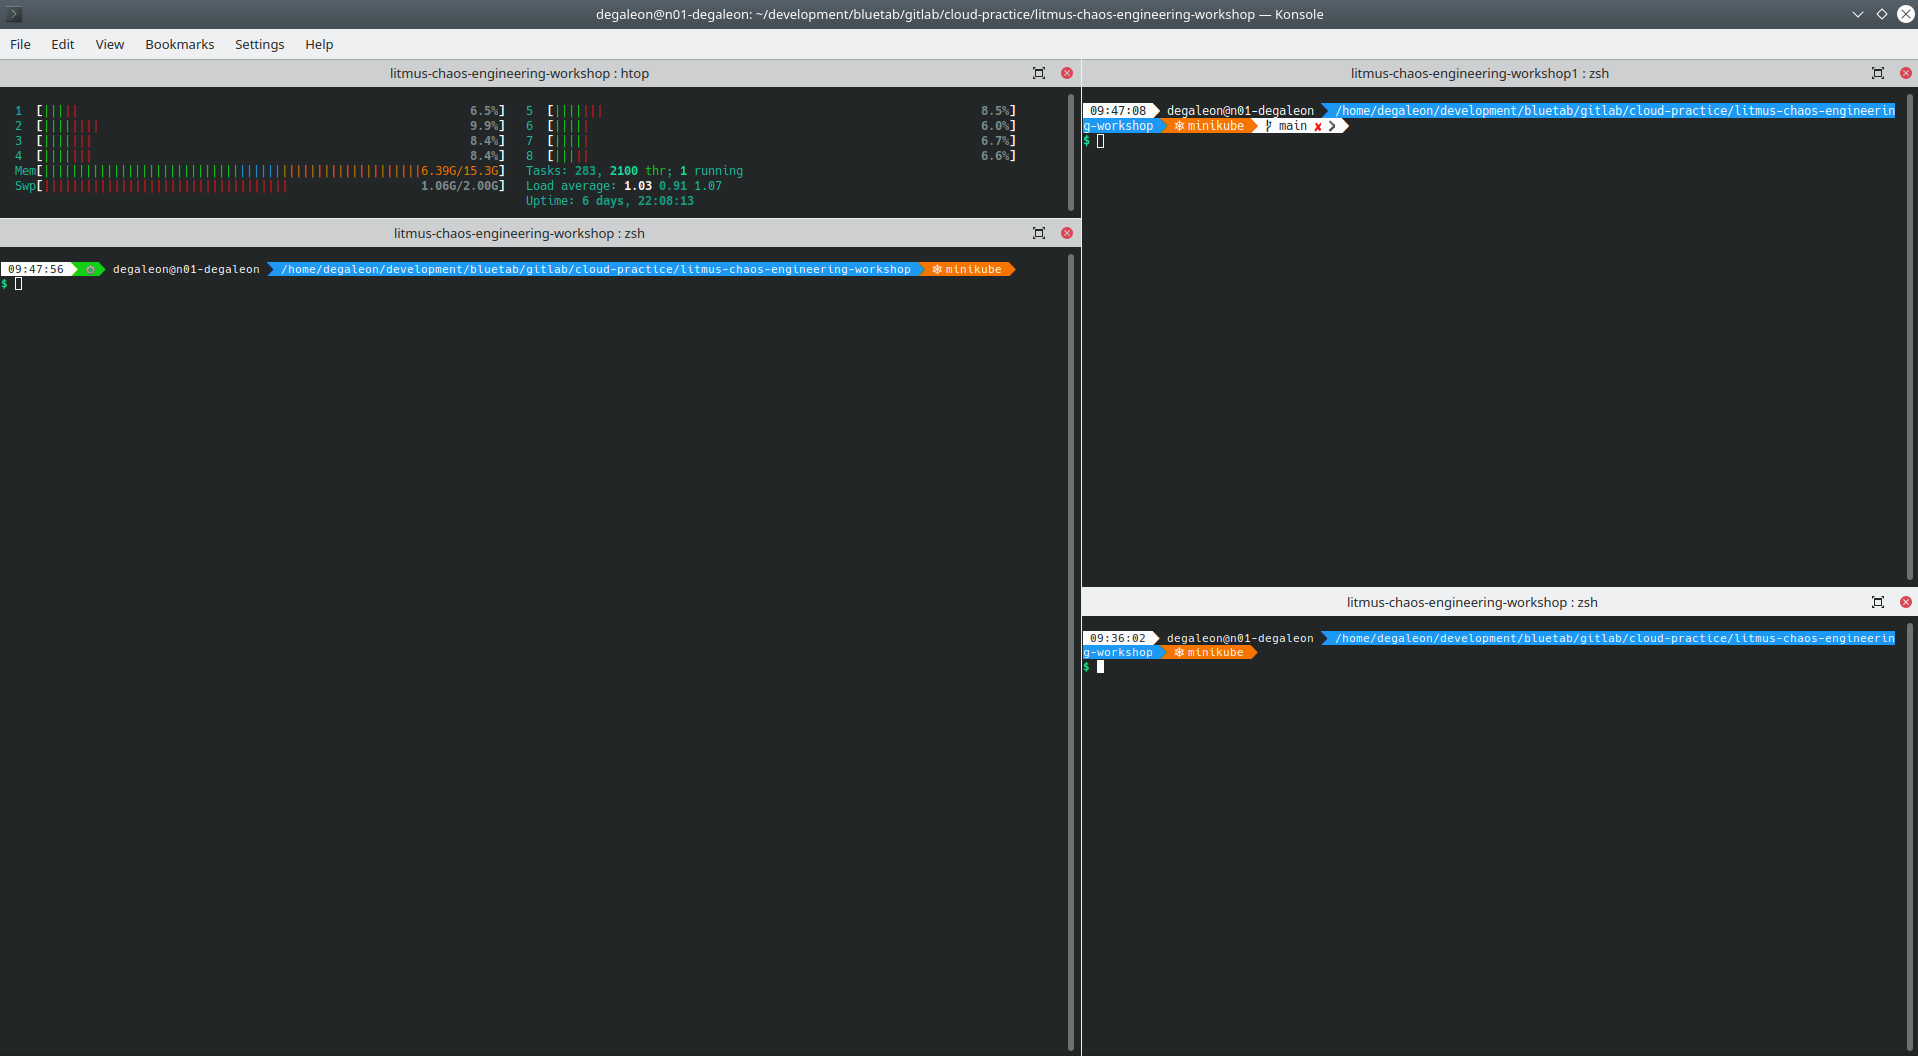
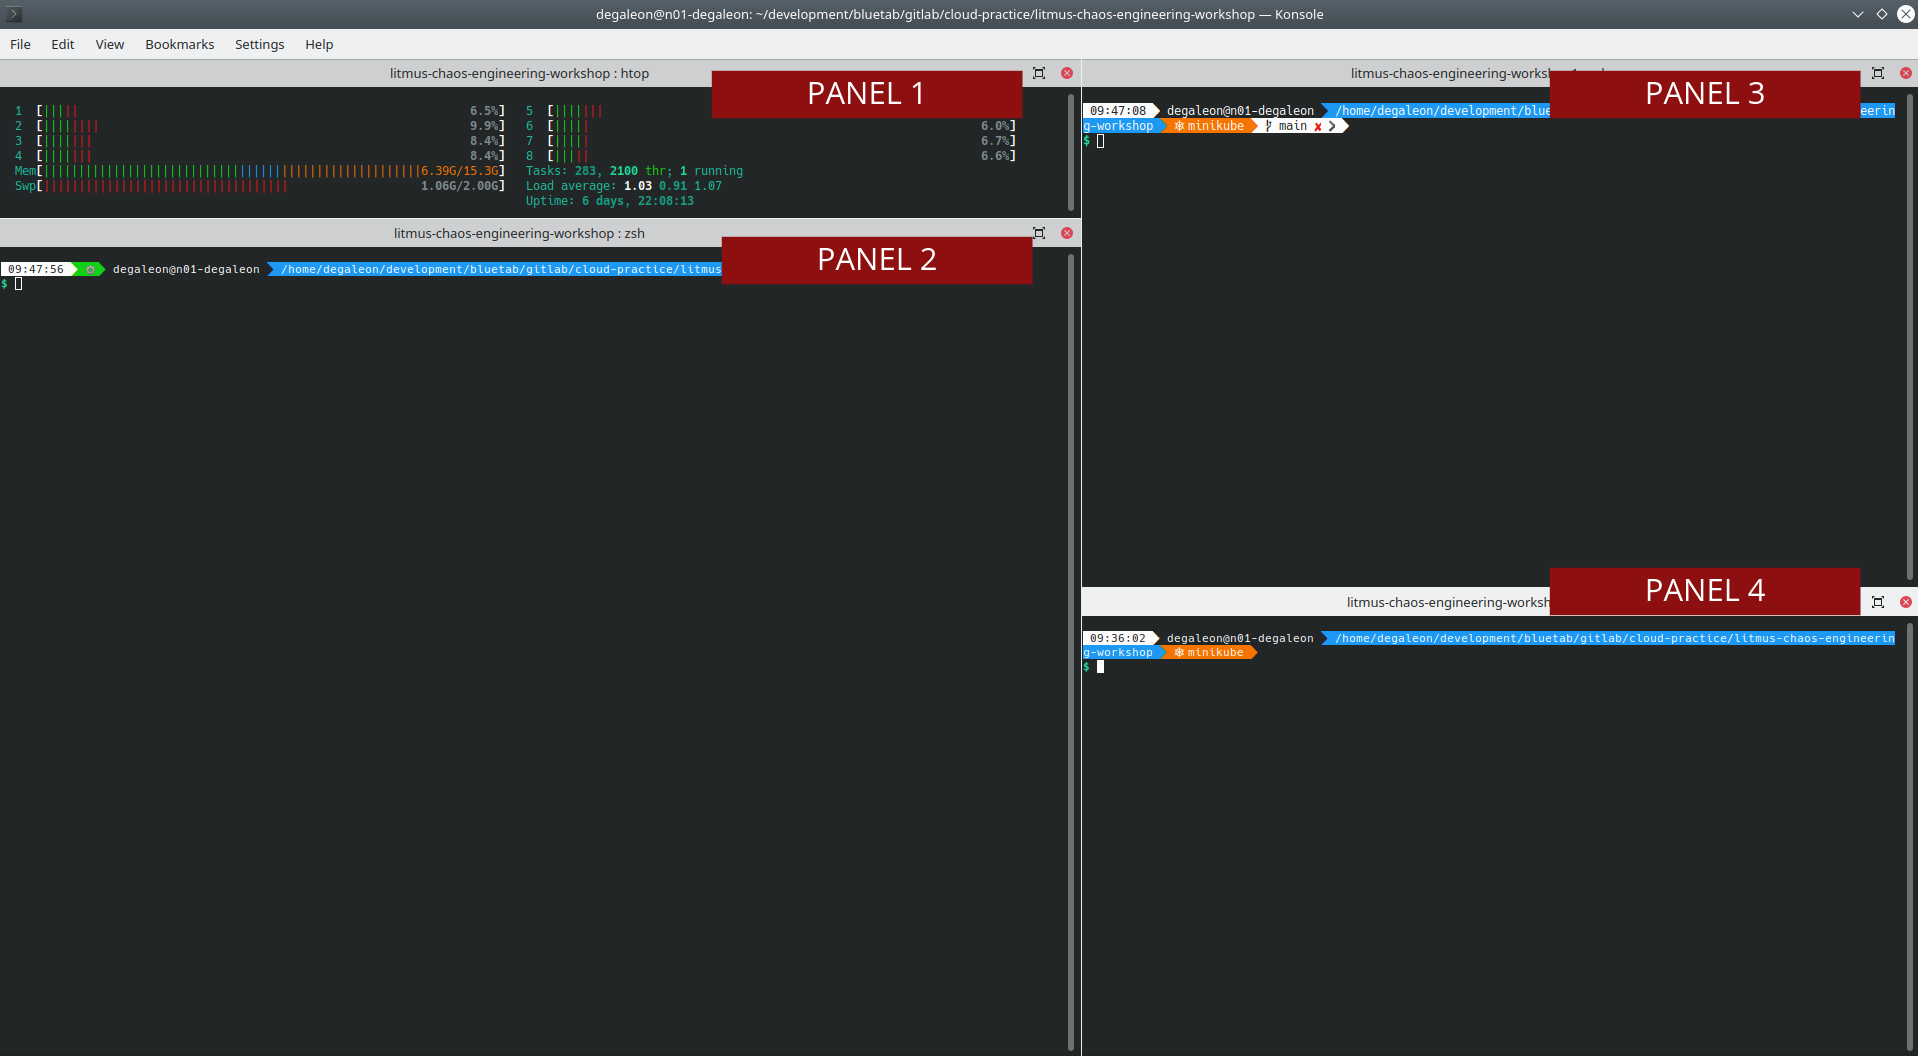
docs: change images

diff --git a/README.md b/README.md
@@ -118,14 +118,18 @@ app-sample-7ff489dbd5-82ppw   1/1     Running   0          45m
 app-sample-7ff489dbd5-jg9vh   1/1     Running   0          45m
 ```
 
-:information_source: En el panel 3 ejecutar el siguiente código para recibir la respuesta de la aplicación. 
+:information_source: En el **panel 3** ejecutar el siguiente código para recibir la respuesta de la aplicación. 
 ```bash
 TESTING_NAMESPACE='testing'
 URL_SERVICE=$(minikube service app-sample --url -n "${TESTING_NAMESPACE}")
 while true; do sleep 5; curl --connect-timeout 3 ${URL_SERVICE}; echo -e ' '$(date);done
 ```
 
-![Console tabs 3](./docs/img/console-tabs-3.png)
+:information_source: En el **panel 4** ejecutar el siguiente código para ver el estado de los pods:
+```bash
+TESTING_NAMESPACE='testing'
+watch -n 1 kubectl get pods -n "${TESTING_NAMESPACE}"
+```
 
 ### **Instalación *Chaos Experiments***
 
